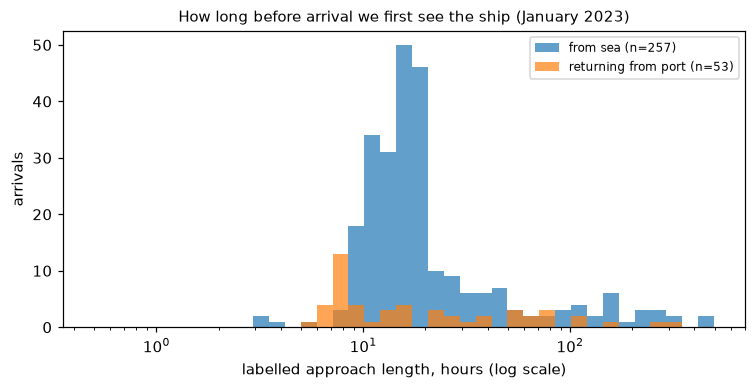
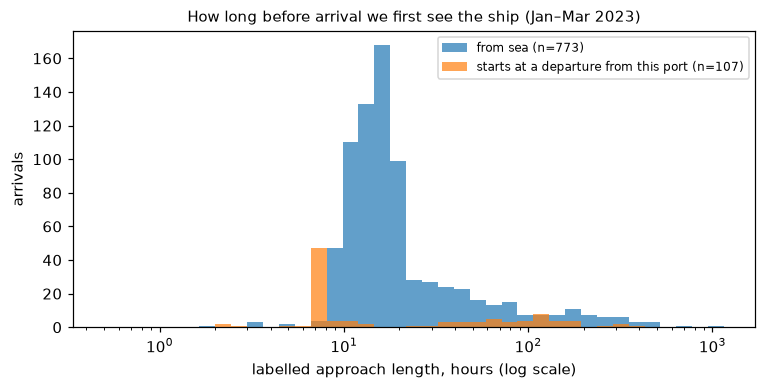
Extend data to Jan-Mar 2023; fix from_port leaking the data window
- configs/data.yaml: range now 2023-01-01..2023-03-31 (90 days ingested)
- voyages: from_port is true only when the labelled approach starts at the
  port exit; it used to be true for any earlier port stay in the data, so its
  share grew with the window length (17% Jan -> 52% Mar)
- regression test for a ship that leaves range and returns from sea
- README: Jan-Mar numbers (880 labelled arrivals, 1.13M points), geofence
  checks re-run on 3 months, note on the Catalina shuttle dominating short trips

diff --git a/src/vessel_eta/voyages.py b/src/vessel_eta/voyages.py
@@ -74,7 +74,7 @@ def build_voyages(df: pl.DataFrame, port: Port) -> tuple[pl.DataFrame, pl.DataFr
         how="inner",
     )
     outside = outside.with_columns(
-        from_port=pl.col("run") > 0,  # preceded by a port stay (departure, then back)
+        left_port=pl.col("run") > 0,  # the outside-run starts with a departure
         entry_gap_min=(pl.col("arrival_ts") - pl.col("t_last")).dt.total_seconds() / 60,
     )
     gate_names = list(port.gates)
@@ -107,6 +107,10 @@ def build_voyages(df: pl.DataFrame, port: Port) -> tuple[pl.DataFrame, pl.DataFr
     )
     voyages = (
         outside.join(stats, on="voyage_id", how="inner")
+        # The approach starts at a departure from this same port (berth shift, trip to an
+        # anchorage) only if the labelled part was not cut at a silence. A ship that left,
+        # went out of range and came back days later is arriving from sea.
+        .with_columns(from_port=pl.col("left_port") & (pl.col("start_ts") == pl.col("t_first")))
         .join(
             df.group_by("mmsi").agg(
                 pl.col("vessel_type").drop_nulls().mode().first(),

diff --git a/scripts/plot_labels.py b/scripts/plot_labels.py
@@ -56,14 +56,14 @@ def main() -> None:
     lab = voyages.filter(pl.col("labelled"))
     fig, ax = plt.subplots(figsize=(8, 3.5))
     bins = np.logspace(np.log10(0.5), np.log10(max(lab["duration_h"].max(), 1)), 40)
-    for from_port, label in [(False, "from sea"), (True, "returning from port")]:
+    for from_port, label in [(False, "from sea"), (True, "starts at a departure from this port")]:
         d = lab.filter(pl.col("from_port") == from_port)["duration_h"]
         ax.hist(d, bins=bins, alpha=0.7, label=f"{label} (n={d.len()})")
     ax.set_xscale("log")
     ax.set_xlabel("labelled approach length, hours (log scale)")
     ax.set_ylabel("arrivals")
     ax.legend(fontsize=8)
-    ax.set_title("How long before arrival we first see the ship (January 2023)", fontsize=10)
+    ax.set_title("How long before arrival we first see the ship (Jan–Mar 2023)", fontsize=10)
     fig.savefig(OUT / "approach_hours.png", dpi=110, bbox_inches="tight")
     plt.close(fig)
     print(f"wrote {[p.name for p in Path(OUT).glob('*.png')]}")

diff --git a/tests/test_voyages.py b/tests/test_voyages.py
@@ -75,6 +75,17 @@ def test_departure_and_return_is_flagged_from_port():
     assert voyages["from_port"][0]
 
 
+def test_leaving_range_and_coming_back_counts_as_from_sea():
+    # regression: was flagged from_port just because an earlier port stay was in the data
+    rows = stay(0, 60, INSIDE)
+    rows += [(60 + i, 33.69 - i * 0.001, -118.20, 8.0) for i in range(30)]  # leaves port
+    rows += arrival_rows(start_min=90 + 3 * 24 * 60, minutes=60)  # back from sea 3 days later
+    voyages, labels = run(track(1, rows))
+    assert voyages.height == 1
+    assert not voyages["from_port"][0]
+    assert labels.height == 60
+
+
 def test_two_ships_two_voyages_and_summary():
     df = pl.concat([track(1, arrival_rows()), track(2, arrival_rows(start_min=500, minutes=90))])
     voyages, labels = run(df)

diff --git a/README.md b/README.md
@@ -3,7 +3,7 @@
 Predicting when a ship will arrive at port, and spotting ships that behave strangely,
 from raw AIS transponder data published by NOAA.
 
-> **Status:** data pipeline and ETA labels done (January 2023: 310 arrivals, 388k labelled
+> **Status:** data pipeline and ETA labels done (Jan–Mar 2023: 880 arrivals, 1.13M labelled
 > points). Baselines are next — see [Roadmap](#roadmap).
 
 ![Labelled approaches to LA / Long Beach](docs/img/approaches_map.png)
@@ -75,8 +75,8 @@ data/processed/labels_la_lb.json          # summary below
 
 ### 1. One MMSI is not always one ship
 
-Even after row-level cleaning, 294 of 418 cargo/tanker MMSIs had at least one
-position jump no ship could make. Looking at the rows, three different causes:
+Even after row-level cleaning, 294 of the 418 cargo/tanker MMSIs seen in January had
+at least one position jump no ship could make. Looking at the rows, three different causes:
 
 | what | example | how it is caught |
 |---|---|---|
@@ -86,7 +86,8 @@ position jump no ship could make. Looking at the rows, three different causes:
 
 [`tracks.py`](src/vessel_eta/tracks.py) assigns each point, in time order, to the
 longest sub-track it could physically have come from, and keeps only the main one.
-It drops 0.6% of points (2,925 spikes + 7,317 ghost/replay points). The third
+Over Jan–Mar it drops 0.9% of points (7,434 spikes + 32,109 ghost/replay points;
+ghosts on 370 of 836 ships). The third
 case was only found because an early version produced a ship that "arrived" in
 port twice in five hours without ever leaving.
 
@@ -95,13 +96,13 @@ port twice in five hours without ever leaving.
 Arrival = passing the breakwater through Angels Gate or Queens Gate. Ships waiting
 at the outer anchorages have not arrived; ships moved to the inner anchorages have.
 The polygon ([`configs/port.yaml`](configs/port.yaml)) follows the breakwater and was
-checked against the data rather than drawn by eye:
+checked against the data (Jan–Mar 2023, cleaned tracks) rather than drawn by eye:
 
-- 99.998% of moored cargo positions (AIS status 5) fall inside;
-- no anchorage swing circle is cut by the edge: of 269 at-anchor stays, the 3 with points
+- 99.999% of moored cargo positions (AIS status 5) fall inside;
+- no anchorage swing circle is cut by the edge: of 848 at-anchor stays, the 6 with points
   on both sides are ships moved between an outer and an inner anchorage without changing
-  their AIS status (two clusters 1.4–6.9 km apart, one after the other);
-- 99% of labelled arrivals are first seen inside within 0.56 km of a gate.
+  their AIS status (two clusters 1.4–9.3 km apart, one after the other);
+- labelled arrivals are first seen inside a median 0.27 km (p99 1.2 km) from a gate.
 
 ### 3. Voyages and labels
 
@@ -111,26 +112,38 @@ checked against the data rather than drawn by eye:
 - the approach before an arrival is cut at the last silence longer than 6 h, so a ship
   that passed by on day 3 and called on day 25 does not get a 22-day "ETA";
 - if the ship is silent for more than 15 min right at the entrance, the arrival time
-  is unsure: the voyage is kept but not labelled (31 of 341 arrivals);
+  is unsure: the voyage is kept but not labelled (90 of 970 arrivals);
 - passing traffic and ships still at sea when the data ends get no labels.
 
-| January 2023 | |
+| Jan–Mar 2023 | |
 |---|---|
-| arrivals detected | 341 |
-| labelled arrivals (229 cargo, 81 tanker) | 310 |
-| — of them returning after leaving port (shifts, anchoring) | 53 |
-| ships | 265 |
-| labelled points | 387,896 (56% within 24 h of arrival) |
-| approach length, median / p90 | 16.6 h / 83 h |
+| arrivals detected | 970 |
+| labelled arrivals (623 cargo, 257 tanker) | 880 |
+| — approach starts at a departure from this port (berth shift, anchoring trip) | 107 |
+| ships | 597 |
+| labelled points | 1,134,014 (53% within 24 h of arrival) |
+| approach length, median / p90 | 16.0 h / 81 h |
+
+`from_port` is true only when the labelled approach begins at the port exit. An earlier
+version set it whenever the ship had *any* earlier port stay in the data, so liner ships
+returning from Hawaii a week later counted as "from port" — and the share grew with the
+length of the data window (17% in January, 52% in March): a feature that would have
+leaked the dataset's start date into the model.
 
 ![Approach length](docs/img/approach_hours.png)
 
-The long tail is waiting: 36 labelled voyages spend more than half their approach
+The orange spike at ~7.5 h is almost entirely one ship: CATALINA PROVIDER, the
+Santa Catalina Island supply vessel, with 51 of the 880 labelled arrivals. Its labels are
+correct, but a model scored on random rows would look better than it is by learning one
+easy, repetitive route — so validation must split by vessel, and metrics are reported
+per voyage as well as per point.
+
+The long tail is waiting: 102 labelled voyages spend more than half their approach
 stationary at the outer anchorages. Predicting *that* wait is the hard part of ETA.
 
 **The bar to beat.** Straight-line distance to the nearest gate divided by current
-speed, on underway points (SOG > 5 kn) within 24 h of arrival: **MAE 150 min**, and it
-is biased — the median prediction is 93 min too early (ships slow down for the pilot
+speed, on underway points (SOG > 5 kn) within 24 h of arrival (445k points):
+**MAE 151 min**, and it is biased — the median prediction is 92 min too early (ships slow down for the pilot
 and follow the traffic lanes, not a straight line).
 
 ## Quickstart
